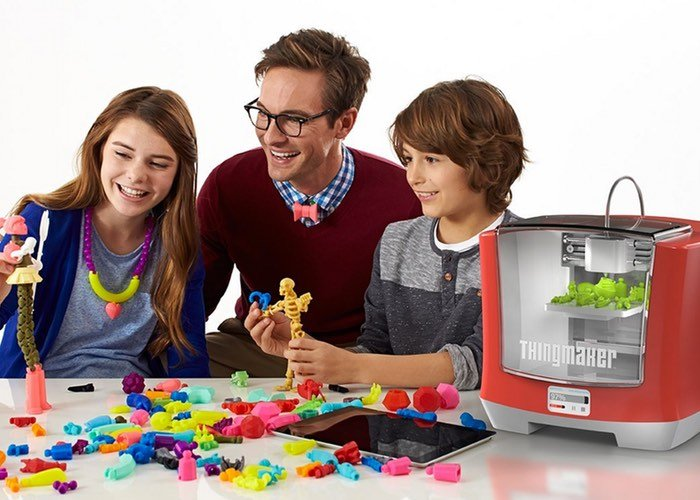
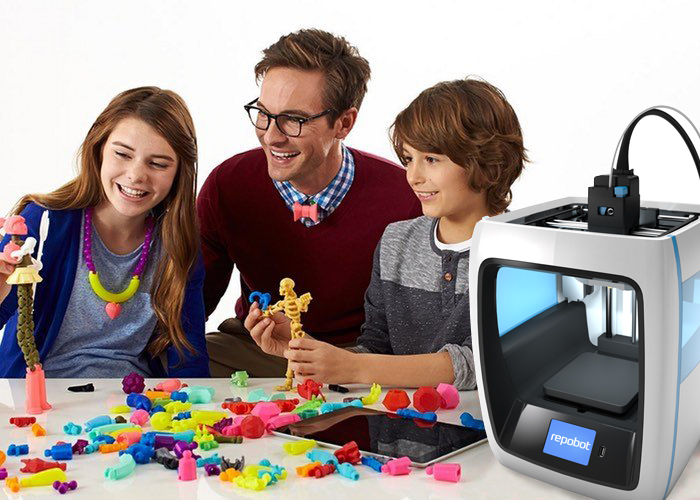
replaced printer images of main and product page
The new images now has the correct printer model

diff --git a/page-product/product.html b/page-product/product.html
@@ -39,7 +39,7 @@
     <main class="classmain">
         <div class="product-container">
             <div class="image-container">
-                <img src="/img/MakerBot-Replicator-.jpg" alt="">
+                <img src="img/Printer-preview1.jpg" alt="">
             </div>
             <div class="product-description">
                 <h1>RepoBot</h1>
@@ -51,13 +51,16 @@
         </div>
         <div class="gallery-container">
             <div class="image-pick">
-                <img src="/img/2658127_d52aae28fad7.jpg" alt="">
+                <img src="img/Printer-preview1.jpg" alt="">
             </div>
             <div class="image-pick">
-                <img src="/img/MakerBot-Replicator-.jpg" alt="">
+                <img src="img/Printer-preview2.jpg" alt="">
             </div>
             <div class="image-pick">
-                <img src="/img/makerbot-replicator-3d-printer.jpg" alt="">
+                <img src="img/Printer-preview3.jpg" alt="">
+            </div>
+            <div class="image-pick">
+                <img src="img/Printer-preview4.jpg" alt="">
             </div>
         </div>
         <h2>Om RepoBot</h2>

diff --git a/index.html b/index.html
@@ -38,13 +38,13 @@
     <main class="classmain">
         <div class="gallery-slider-container">
             <div class="image-slide fade">
-                <img src="img/MakerBot-Replicator-.jpg" alt="">
+                <img src="img/Printer-preview1-wide.jpg" alt="">
             </div>
             <div class="image-slide fade">
-                <img src="img/makerbot-replicator-3d-printer.jpg" alt="">
+                <img src="img/Printer-preview2-wide.jpg" alt="">
             </div>
             <div class="image-slide fade">
-                <img src="img/2658127_d52aae28fad7.jpg" alt="">
+                <img src="img/Printer-preview3-wide.jpg" alt="">
             </div>
             <span id="slide-leftArrow" class="slide-next-button">&#60;</span>
             <span id="slide-rightArrow" class="slide-next-button">&#62;</span>

diff --git a/styles/css/style.css b/styles/css/style.css
@@ -160,7 +160,7 @@ div.gallery-slider-container {
     .gallery-container .image-pick img {
       object-fit: cover;
       width: 100px;
-      height: 70px; }
+      height: 100px; }
     .gallery-container .image-pick:hover {
       cursor: pointer; }
 

diff --git a/styles/scss/style.scss b/styles/scss/style.scss
@@ -213,7 +213,7 @@ div.gallery-slider-container{
         img{
             object-fit:cover;
             width:100px;
-            height:70px;
+            height:100px;
         }
         &:hover{
             cursor:pointer;
